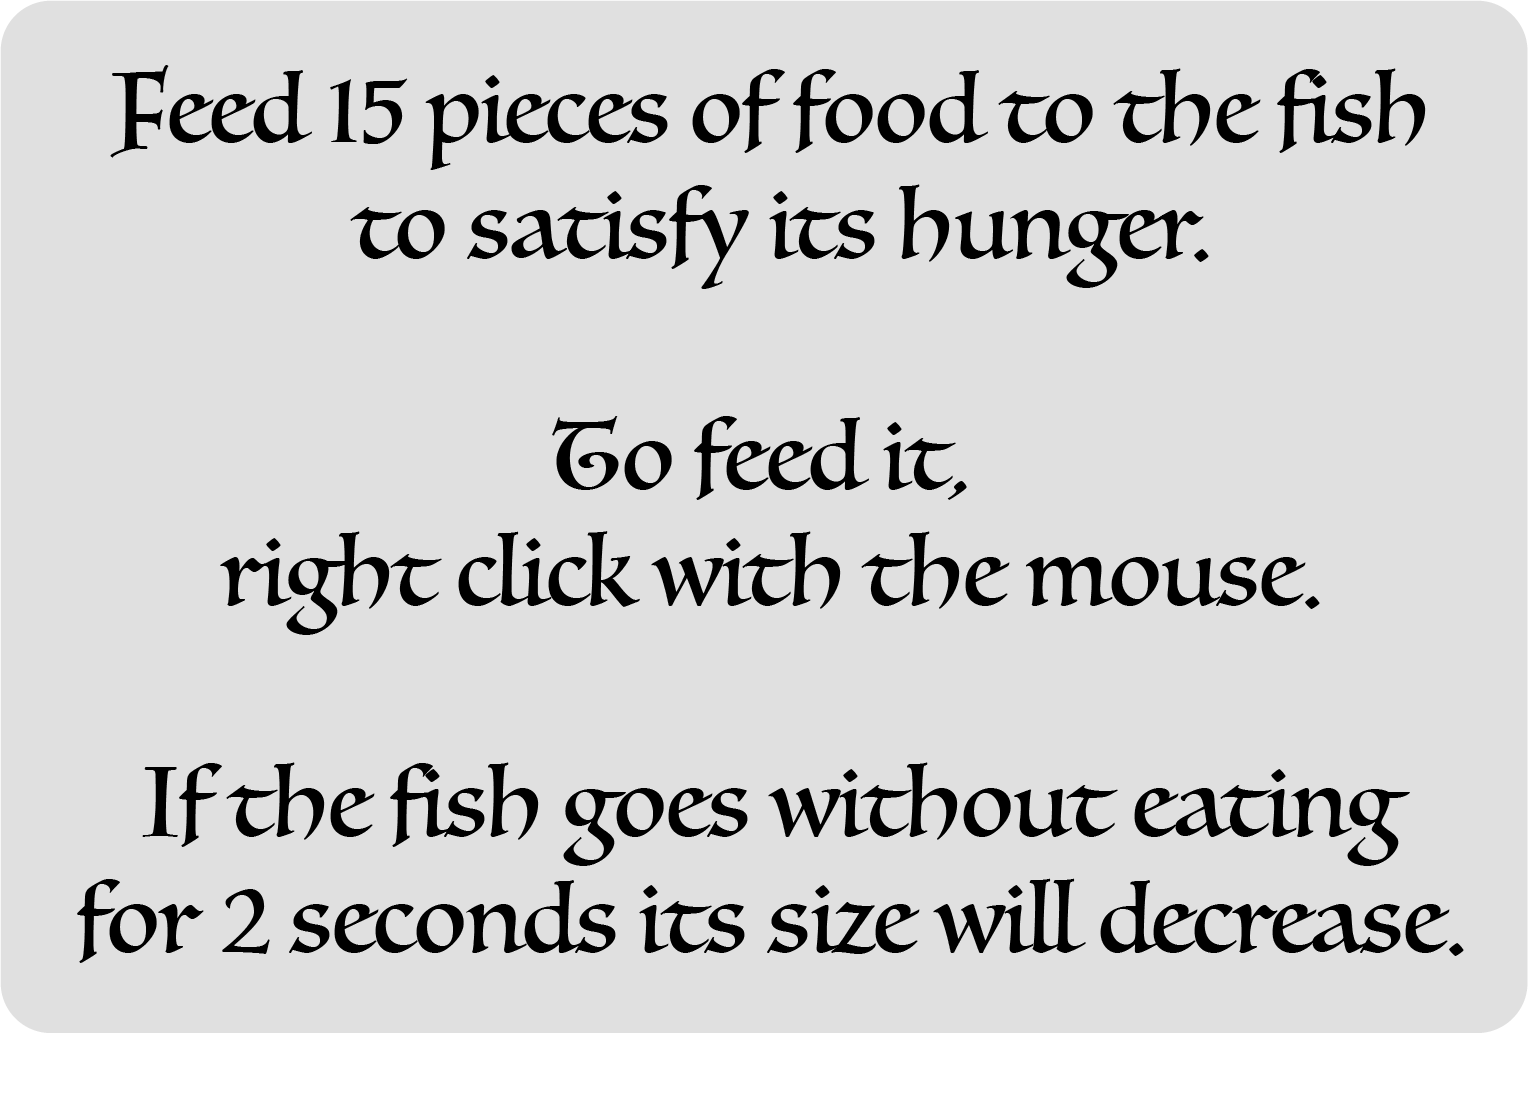
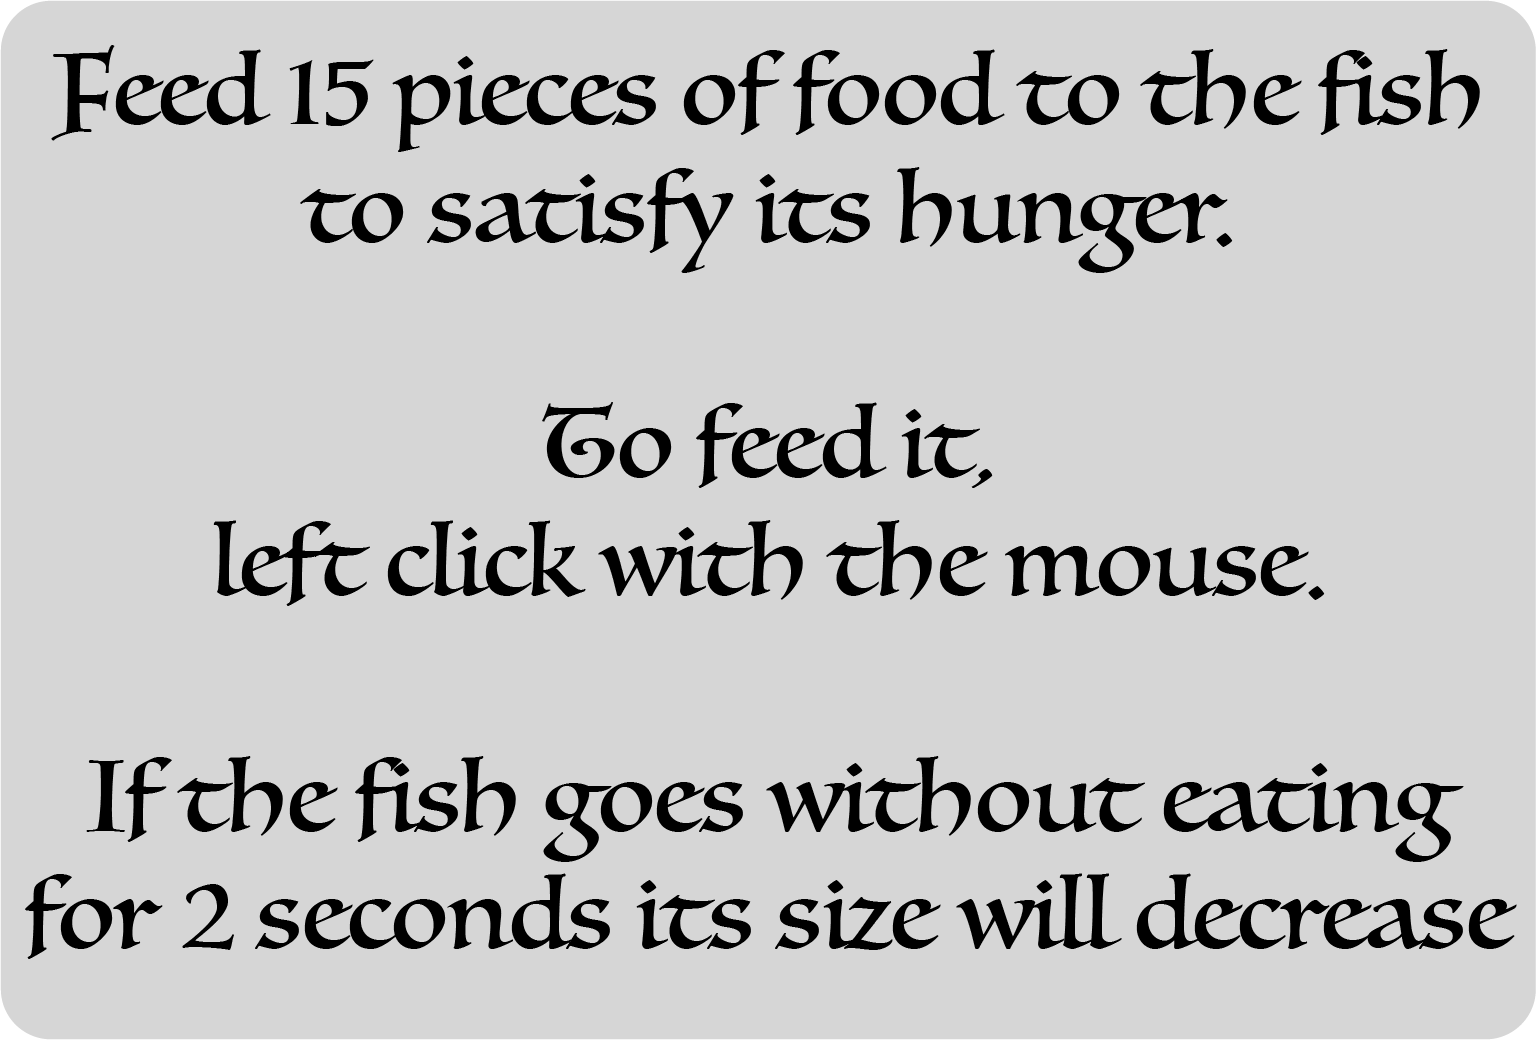
P2 Created the fish food with arrays.

Changed region(s): [[0.0, 0.6769, 1.0, 1.0], [0.0308, 0.0308, 0.9843, 0.2769], [0.123, 0.3692, 0.8613, 0.5846]]

diff --git a/Projects/Project2/js/script.js b/Projects/Project2/js/script.js
@@ -38,7 +38,7 @@ BASICS/MISC
 ===============================*/
 
 //Determine the canvas position
-let canvasDimensons = {
+let canvasPosition = {
   x: 1280,
   y: 720,
 };
@@ -54,6 +54,9 @@ let numRainDrops = 200;
 //sound volume
 let songVolume = 0.6;
 let sfxVolume = 0.5;
+
+//Array for Tetrafin(FishFood)
+let tetraFin = [];
 
 //Create variables for the colour of the lamp lighting
 let bedLampLightFill;
@@ -255,7 +258,7 @@ let aquariumImage = undefined;
 let aquariumHoverImage = undefined;
 
 //What state is it in
-let state = "MainRoom";
+let state = "Aquarium";
 
 /*=============================
 IMAGES/SOUNDS/FONTS TO PRELOAD
@@ -359,7 +362,7 @@ SETTING UP! CANVAS|CLASSES|ARRAYS|BEDLAMPLIGHTS
 ======================================*/
 function setup() {
   //Creating the canvas
-  createCanvas(canvasDimensons.x, canvasDimensons.y);
+  createCanvas(canvasPosition.x, canvasPosition.y);
 
   //Setting up sounds (Volume,Loops)
   //Set the volume down a bit
@@ -643,9 +646,15 @@ function atomMenu() {
   function aquariumToggle() {
     aquariumLayout.display();
     aquariumLayout.mouseOver();
-    aquariumLayout.displayAquaHelp();
 
+  for (let i = 0; i < tetraFin.length; i++) {
+    tetraFin[i].display();
+    tetraFin[i].move();
   }
+
+    aquariumLayout.displayAquaBottom();
+    aquariumLayout.displayAquaHelp();
+}
 
 /*=====P5 Functions====*\
 keyTyped,keyPressed,mouseClicked
@@ -718,6 +727,23 @@ function mouseClicked() {
     aquariumLayout.mouseClicked();
   }
 }
+
+//Functionality for mousePressed (x,y)
+function mousePressed() {
+
+  //Constrain parameters
+  let xc = constrain(mouseX,0,canvasPosition.x);
+  let yc = constrain(mouseY,0,canvasPosition.y);
+
+  //Generate a new food if pressed from the class
+  let newtetraFin = new TetraFin(random(58, 1232), 50);
+  //If the mouse is in the canvas and pressed display a new food, else do not.
+    if (mouseX == xc) {
+      if (mouseY == yc) {
+        tetraFin.push(newtetraFin);
+      }
+    }
+  }
 
 //Functionality for double clicked.
 function doubleClicked() {

diff --git a/Projects/Project2/js/Room2/AquariumRelated/AquariumLayout.js b/Projects/Project2/js/Room2/AquariumRelated/AquariumLayout.js
@@ -12,9 +12,15 @@ class AquariumLayout extends Apartment {
     this.aquaHelpHeight = 250;
     //position
     this.aquaHelpX = 1103;
-    this.aquaHelpY = 560;
+    this.aquaHelpY = 535;
     //Switch between shown or not
     this.aquaHelpToggle = false;
+    //Bottom Border dimensions/position/colour
+    this.bottomWidth = 1280;
+    this.bottomHeight = 120;
+    this.bottomX = 0;
+    this.bottomY = 660;
+    this.bottomColour = 0;
     //Mouse Clicked Positions (X2 = further x point - Y2 = further y point)
     //Exit Button
     this.xButtonX = 0;
@@ -50,6 +56,15 @@ class AquariumLayout extends Apartment {
       );
       pop();
     }
+  }
+
+  //Display the bottom border
+  displayAquaBottom() {
+    push();
+    noStroke();
+    fill(this.bottomColour);
+    rect(this.bottomX,this.bottomY,this.bottomWidth,this.bottomHeight);
+    pop();
   }
 
   //Function for what happens when the mouse is over the question mark

diff --git a/Projects/Project2/js/Room2/AquariumRelated/TetraFin.js b/Projects/Project2/js/Room2/AquariumRelated/TetraFin.js
@@ -1,0 +1,34 @@
+//This is the class for Tetrafin(FishFood)
+class TetraFin {
+  constructor(x,y) {
+    //Dimensions
+    this.width = 20;
+    this.height = 20;
+    //Position
+    this.x = x;
+    this.y = y;
+    //Velocity
+    this.vy = 0;
+    this.speed = random(5,20);
+    //Fill (Orangey)
+    this.r = 209;
+    this.g = 131;
+    this.b = 6;
+    //FoodEaten
+    this.foodEaten = 0;
+  }
+
+  //Display the food
+  display() {
+    push();
+    noStroke();
+    fill(this.r,this.g,this.b);
+    ellipse(this.x,this.y,this.width,this.height);
+    pop();
+  }
+
+  move() {
+    this.vy = this.y + this.speed;
+    this.y = this.vy;
+  }
+}

diff --git a/Projects/Project2/index.html b/Projects/Project2/index.html
@@ -26,6 +26,7 @@
 
     <script src="js/Room2/AquariumRelated/AquariumLayout.js"></script>
     <script src="js/Room2/AquariumRelated/Aquarium.js"></script>
+    <script src="js/Room2/AquariumRelated/TetraFin.js"></script>
     <script src="js/Room2/ObjectRelated/Book.js"></script>
     <script src="js/Room2/ObjectRelated/Coffee.js"></script>
 
